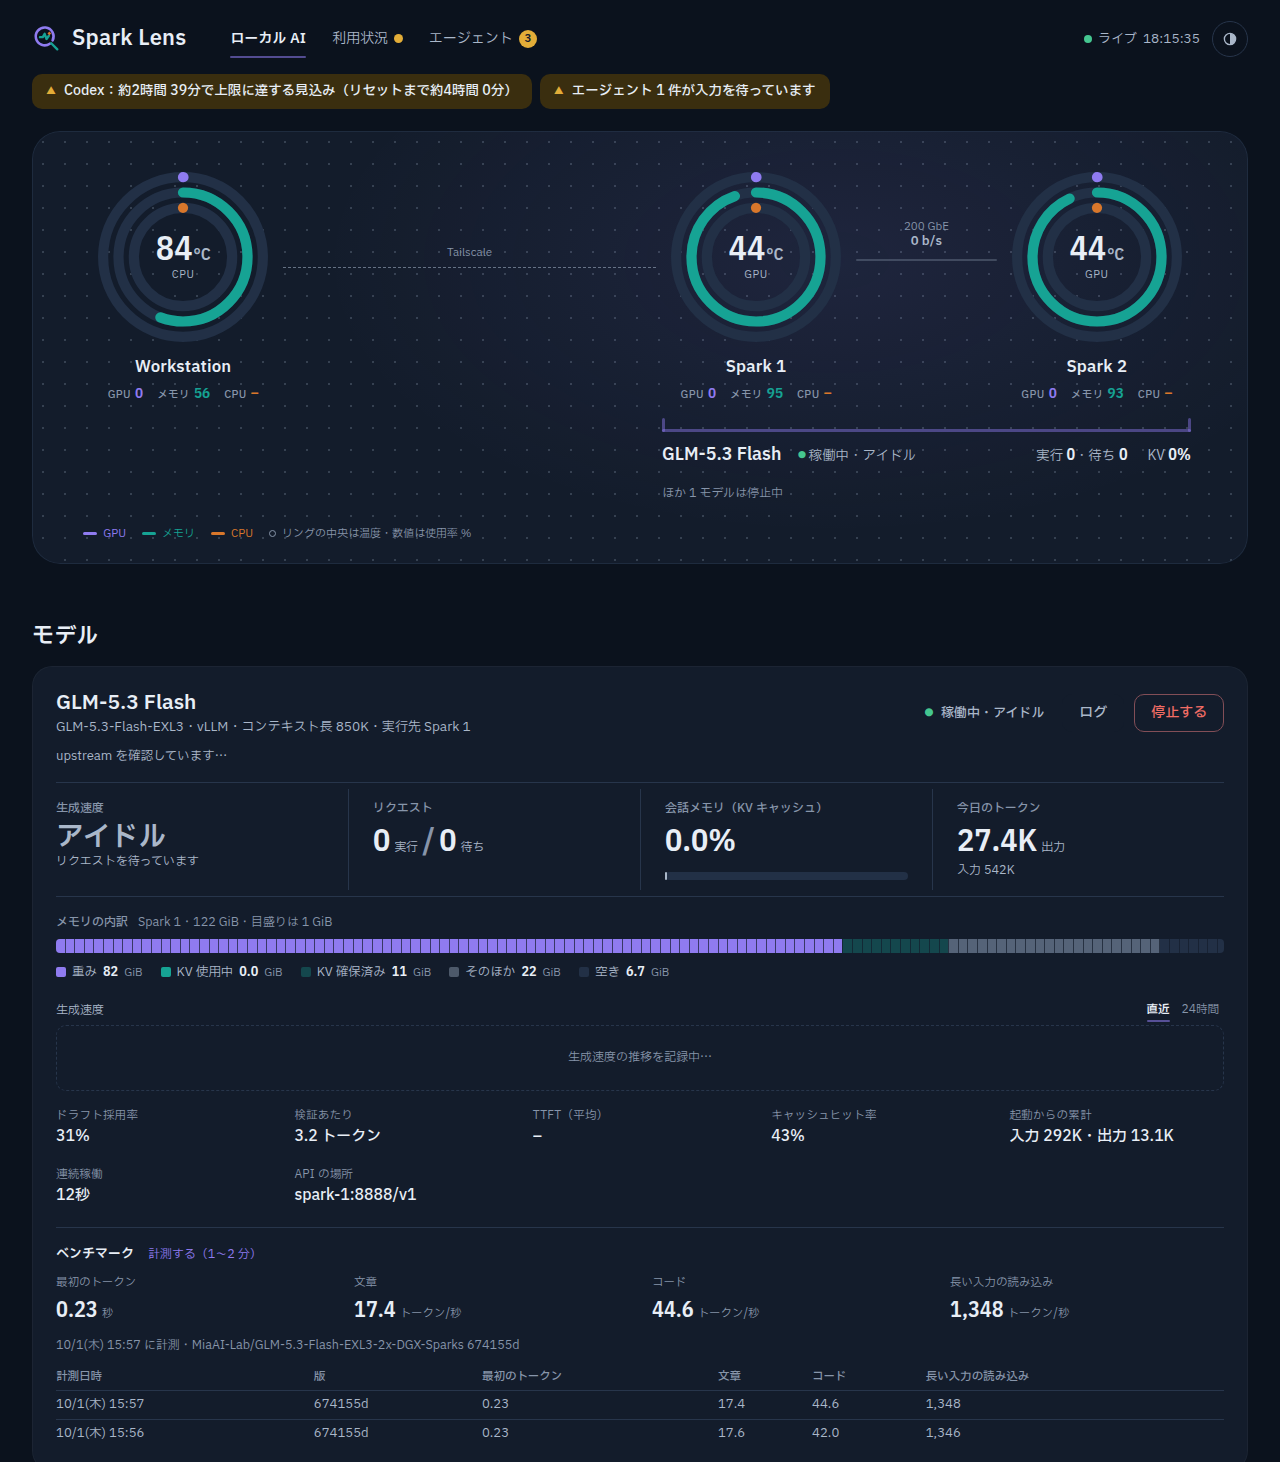
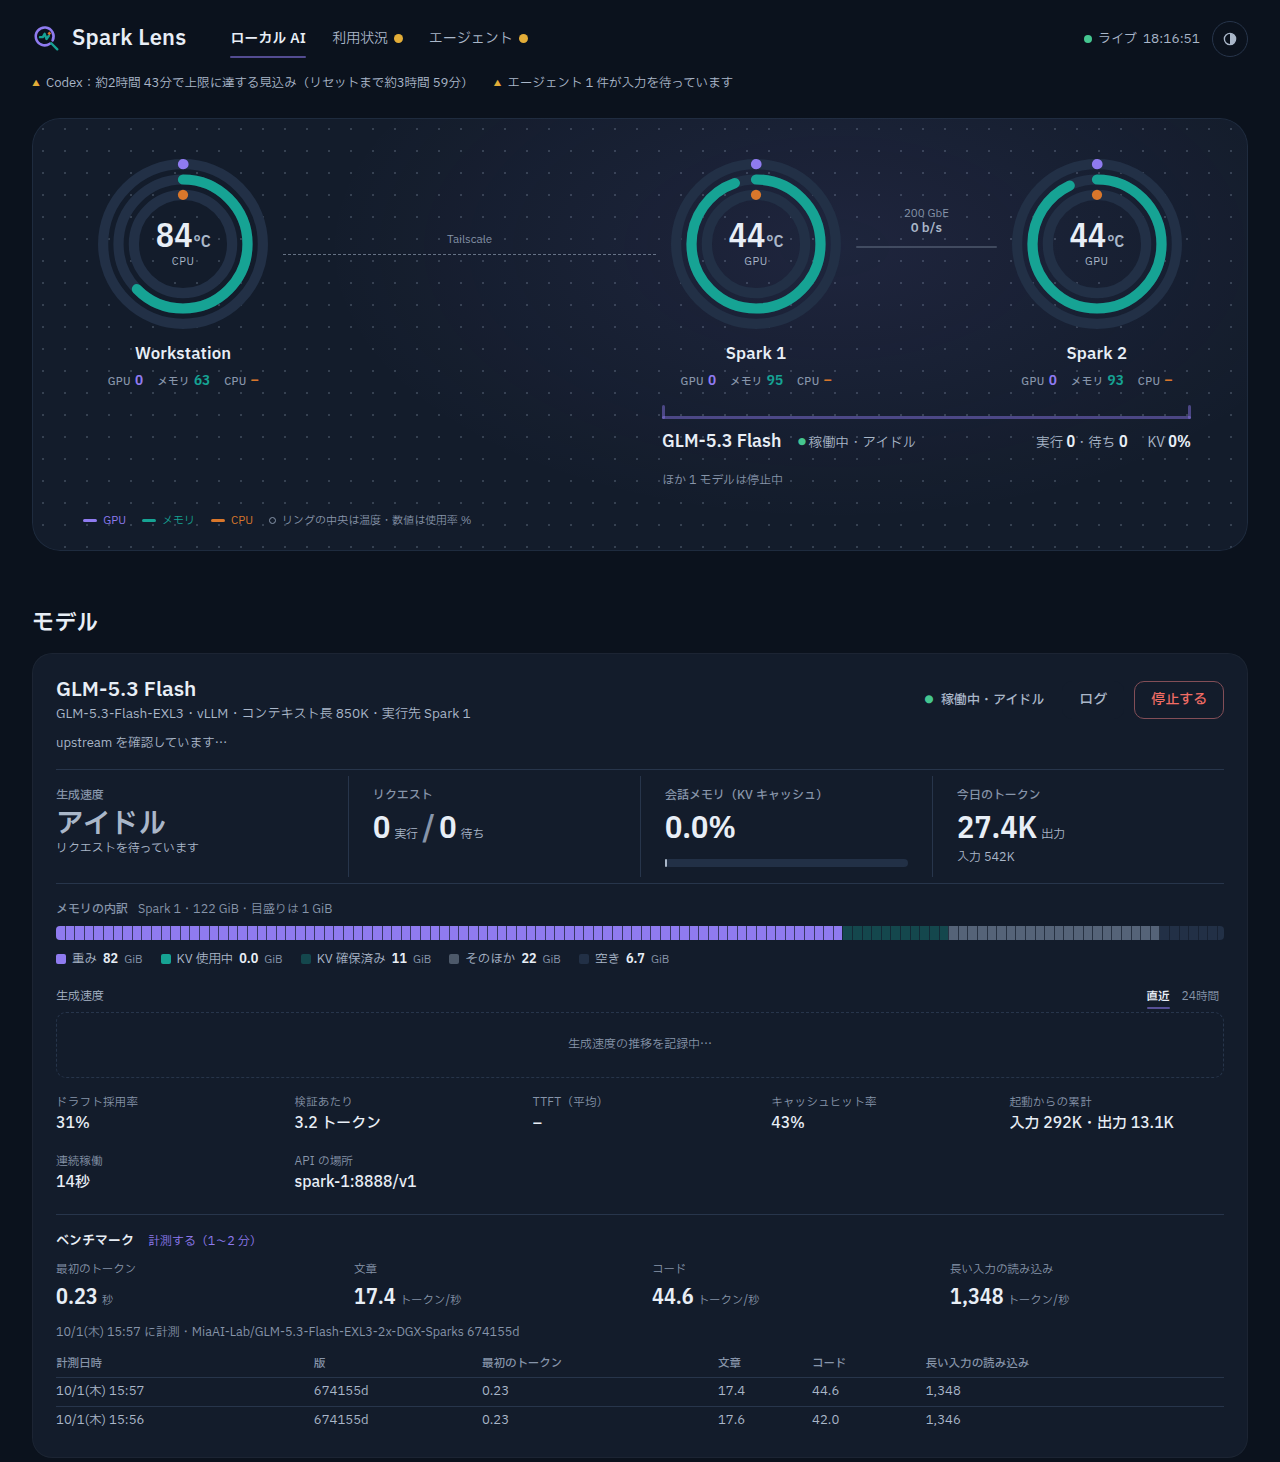
Quieter alerts and tabs; reset times without nested brackets

diff --git a/web/src/status.ts b/web/src/status.ts
@@ -69,27 +69,14 @@ export function badges(s: Snapshot, now: number): Record<Page, Badge | null> {
     list.filter((a) => a.page === page).sort((a, b) => RANK[b.tone] - RANK[a.tone])[0] ?? null;
 
   const labAlert = worst("lab");
-  const busyLlm = s.llms.some((l) => (l.requestsRunning ?? 0) > 0);
-  const starting = s.llms.some((l) => l.state === "starting") || s.recipes.some((r) => r.status === "starting" || r.status === "stopping");
-  const lab: Badge | null = labAlert
-    ? { tone: labAlert.tone, text: "", label: labAlert.text }
-    : starting
-      ? { tone: "warn", text: "", label: "起動・停止の処理中" }
-      : busyLlm
-        ? { tone: "busy", text: "", label: "推論中" }
-        : null;
+  // Tabs only speak up when something needs the owner; busy is normal and stays quiet.
+  const lab: Badge | null = labAlert ? { tone: labAlert.tone, text: "", label: labAlert.text } : null;
 
   const usageAlert = worst("usage");
   const usage: Badge | null = usageAlert ? { tone: usageAlert.tone, text: "", label: usageAlert.text } : null;
 
   const waiting = s.agents.filter((a) => a.status === "waiting").length;
-  const working = s.agents.filter((a) => a.status === "working").length;
-  const agents: Badge | null =
-    waiting > 0
-      ? { tone: "warn", text: String(waiting + working), label: `入力待ち ${waiting}・作業中 ${working}` }
-      : working > 0
-        ? { tone: "busy", text: String(working), label: `作業中 ${working}` }
-        : null;
+  const agents: Badge | null = waiting > 0 ? { tone: "warn", text: "", label: `入力待ち ${waiting}` } : null;
 
   return { lab, usage, agents };
 }

diff --git a/web/src/styles.css b/web/src/styles.css
@@ -3682,3 +3682,35 @@ section {
     grid-template-columns: minmax(0, 1fr);
   }
 }
+
+/* Alerts: a quiet line of notes rather than filled chips. */
+.alerts {
+  gap: 4px 20px;
+  margin-top: 12px;
+}
+
+.alert {
+  padding: 2px 0;
+  border-radius: 0;
+  background: none;
+  color: var(--ink-2);
+  font-size: 12.5px;
+  font-weight: 400;
+  gap: 6px;
+}
+
+.alert::before {
+  font-size: 8px;
+}
+
+.alert--critical {
+  background: none;
+  color: var(--ink);
+}
+
+.alert:hover {
+  color: var(--ink);
+  text-decoration: underline;
+  text-decoration-color: var(--line);
+  text-underline-offset: 3px;
+}

diff --git a/web/src/components/SubscriptionCard.tsx b/web/src/components/SubscriptionCard.tsx
@@ -13,7 +13,7 @@ function Window({ w, now }: { w: UsageWindow; now: number }) {
       ? "リセット時刻不明"
       : remaining <= 0
         ? "リセット予定時刻を経過"
-        : `あと ${duration(remaining)}（${when(w.resetsAt!, now)}）`;
+        : `あと ${duration(remaining)}・${when(w.resetsAt!, now)}`;
   return (
     <div className="stat">
       <div className="stat__line">
